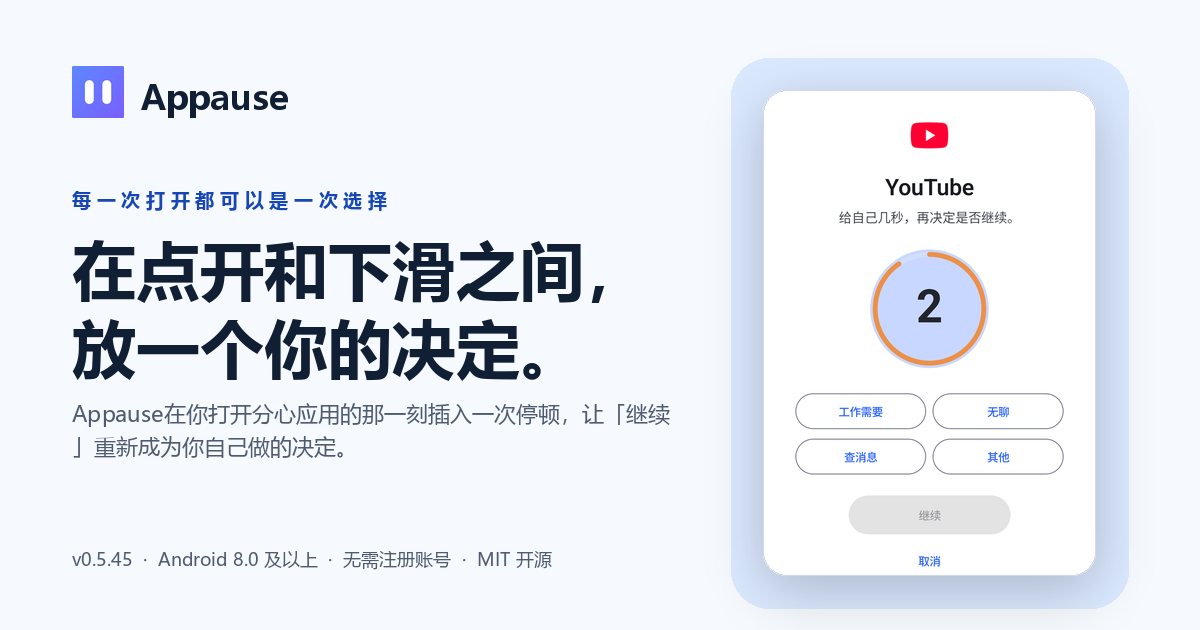
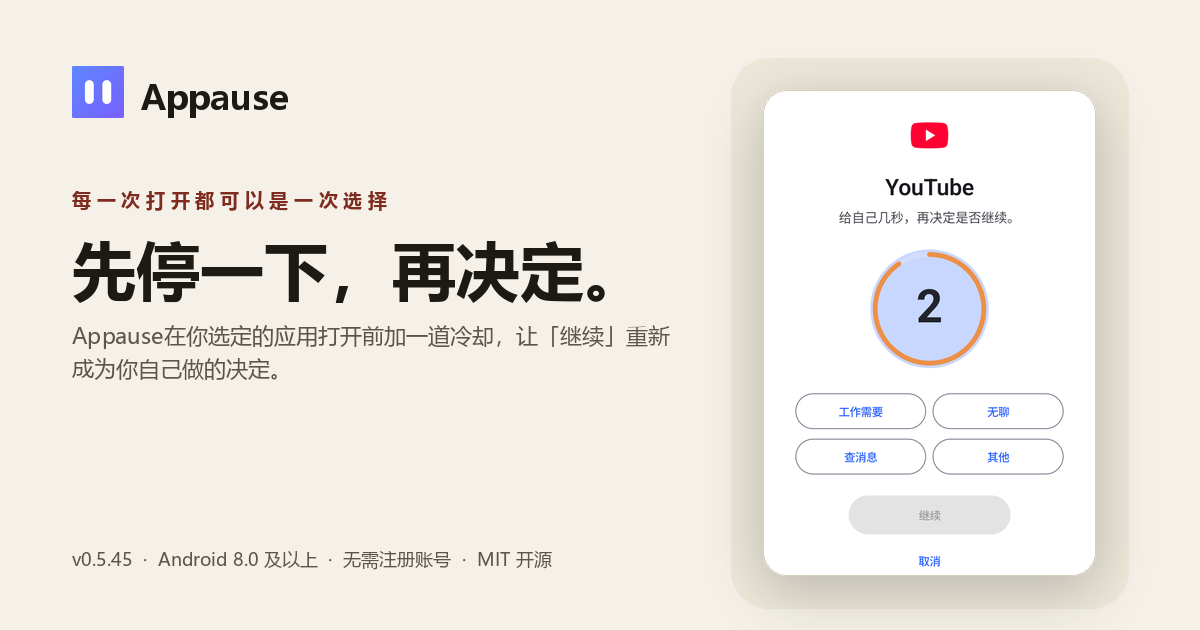
fix(release): give the Chinese share card its own palette
The generator painted both cards with the Cobalt theme read from index.html, so the
Chinese card looked like a different product from the page it links to. The palette is
now per language: English keeps Cobalt, Chinese takes zh.html's paper/ink/cinnabar.
Re-running the English card produces byte-identical files, so that side is untouched.

Copy fixes on the same card: headline now matches the page h1, and the body/alt lost
the two terms the page no longer uses.

diff --git a/scripts/release/make_og_card.py b/scripts/release/make_og_card.py
@@ -8,8 +8,9 @@ Output (English):
 Output (Chinese, --lang zh):
   images/og-card-zh.png         1200x630  social preview
 
-The card matches the landing page palette (Cobalt theme from index.html) and
-uses real app captures from images/screenshots/<lang>/, so sharing the link
+The card matches the landing page palette of the language it belongs to —
+Cobalt (index.html) for English, 纸墨朱红 (zh.html) for Chinese — and uses real
+app captures from images/screenshots/<lang>/, so sharing the link
 shows the actual product rather than a mock. The version string is read from
 app/build.gradle.kts, so re-run this after every release:
 
@@ -63,10 +64,10 @@ COPY = {
         "fonts": (FONT_CJK_BOLD, FONT_CJK_REGULAR, FONT_CJK_REGULAR),
         "label": "每 一 次 打 开 都 可 以 是 一 次 选 择",
         "label_tracking": 0.0,
-        "headline": "在点开和下滑之间，放一个你的决定。",
-        "headline_fit": "在点开和下滑之间，",
-        "body": "Appause 在你打开分心应用的那一刻插入一次停顿，让「继续」重新成为你自己做的决定。",
-        "alt": "Appause 停顿屏：在选定应用打开前先问你为什么",
+        "headline": "先停一下，再决定。",
+        "headline_fit": "先停一下，",
+        "body": "Appause 在你选定的应用打开前加一道冷却，让「继续」重新成为你自己做的决定。",
+        "alt": "Appause 暂停页：在选定应用打开前先问你为什么",
     },
 }
 
@@ -100,13 +101,27 @@ def oklch(lightness: float, chroma: float, hue_deg: float) -> tuple[int, int, in
     return encode(r), encode(g), encode(bl)
 
 
-PAPER = oklch(0.980, 0.006, 255)
-PAPER_BLUE = oklch(0.930, 0.035, 260)
-SURFACE = (255, 255, 255)
-INK = oklch(0.240, 0.045, 258)
-INK_SOFT = oklch(0.470, 0.035, 258)
-RULE = oklch(0.880, 0.018, 258)
-ACCENT_DEEP = oklch(0.440, 0.180, 263)
+# One palette per landing page. A share card painted in the other page's theme
+# reads as a different product from the page it links to, so they are kept apart.
+PALETTE: dict[str, dict[str, tuple[int, int, int]]] = {
+    "en": {
+        "paper": oklch(0.980, 0.006, 255),
+        "panel": oklch(0.930, 0.035, 260),
+        "ink": oklch(0.240, 0.045, 258),
+        "ink_soft": oklch(0.470, 0.035, 258),
+        "rule": oklch(0.880, 0.018, 258),
+        "accent": oklch(0.440, 0.180, 263),
+    },
+    "zh": {
+        # Copied from zh.html's :root tokens. If that page is restyled, re-check these.
+        "paper": (0xF5, 0xF1, 0xE8),      # --paper         #f5f1e8
+        "panel": (0xEC, 0xE7, 0xD9),      # --paper-raise   #ece7d9
+        "ink": (0x1D, 0x1A, 0x16),        # --ink           #1d1a16
+        "ink_soft": (0x5C, 0x55, 0x4A),   # --ink-soft      #5c554a
+        "rule": (0xD9, 0xD2, 0xC3),       # --rule          #d9d2c3
+        "accent": (0x7F, 0x2C, 0x20),     # --cinnabar-deep #7f2c20
+    },
+}
 
 # The icon art is ~9.2% empty on every side (Android adaptive icon safe zone),
 # so crop that padding before drawing it in the wordmark row.
@@ -226,9 +241,10 @@ def content_crop(img: Image.Image, padding: int = 32) -> Image.Image:
 
 def build_card(lang: str) -> Image.Image:
     copy = COPY[lang]
+    pal = PALETTE[lang]
     font_head, font_body, font_util = copy["fonts"]
 
-    canvas = Image.new("RGBA", CANVAS, PAPER + (255,))
+    canvas = Image.new("RGBA", CANVAS, pal["paper"] + (255,))
 
     margin = 72
     version = version_name()
@@ -243,7 +259,7 @@ def build_card(lang: str) -> Image.Image:
     shot_w = round(shot_h * shot.width / shot.height)
     panel = (CANVAS[0] - margin - shot_w - pad * 2, 58, CANVAS[0] - margin, 608)
 
-    draw.rounded_rectangle(panel, radius=38, fill=PAPER_BLUE + (255,))
+    draw.rounded_rectangle(panel, radius=38, fill=pal["panel"] + (255,))
 
     shot_x = panel[0] + pad
     shot_y = 58 + pad
@@ -253,7 +269,7 @@ def build_card(lang: str) -> Image.Image:
     draw.rounded_rectangle(
         (shot_x, shot_y, shot_x + shot_w - 1, shot_y + shot_h - 1),
         radius=24,
-        outline=RULE + (255,),
+        outline=pal["rule"] + (255,),
         width=1,
     )
 
@@ -263,7 +279,7 @@ def build_card(lang: str) -> Image.Image:
     icon = rounded(load_icon(), 12).resize((52, 52), Image.LANCZOS)
     canvas.alpha_composite(icon, (margin, 66))
     draw.text((margin + 68, 74), "Appause",
-              font=ImageFont.truetype(str(font_head), 34), fill=INK)
+              font=ImageFont.truetype(str(font_head), 34), fill=pal["ink"])
 
     # ---- label ------------------------------------------------------------
     tracked_text(
@@ -271,7 +287,7 @@ def build_card(lang: str) -> Image.Image:
         (margin, 186),
         copy["label"],
         ImageFont.truetype(str(font_head), 19),
-        ACCENT_DEEP,
+        pal["accent"],
         copy["label_tracking"],
     )
 
@@ -289,7 +305,7 @@ def build_card(lang: str) -> Image.Image:
     head_lines = wrap(copy["headline"], head_font, text_max)
     y = head_y
     for line in head_lines:
-        draw.text((margin, y), line, font=head_font, fill=INK)
+        draw.text((margin, y), line, font=head_font, fill=pal["ink"])
         y += round(head_font.size * head_lead)
 
     # ---- supporting copy --------------------------------------------------
@@ -297,7 +313,7 @@ def build_card(lang: str) -> Image.Image:
     body_lines = wrap(copy["body"], body_font, text_max)
     y += 16
     for line in body_lines:
-        draw.text((margin, y), line, font=body_font, fill=INK_SOFT)
+        draw.text((margin, y), line, font=body_font, fill=pal["ink_soft"])
         y += body_lead
 
     # ---- footer facts -----------------------------------------------------
@@ -307,7 +323,7 @@ def build_card(lang: str) -> Image.Image:
         if lang == "en"
         else f"v{version}  \u00b7  Android 8.0 及以上  \u00b7  无需注册账号  \u00b7  MIT 开源"
     )
-    draw.text((margin, 546), facts, font=mono, fill=INK_SOFT)
+    draw.text((margin, 546), facts, font=mono, fill=pal["ink_soft"])
 
     # Guard rails: the copy must stay in its column and above the footer.
     if mono.getlength(facts) > text_max:
@@ -347,7 +363,7 @@ def main() -> None:
     icon = load_icon()
     icon.resize((32, 32), Image.LANCZOS).save(IMAGES / "favicon-32.png", optimize=True)
     # iOS masks the icon itself and renders transparency as black, so flatten first.
-    apple = Image.new("RGB", (180, 180), PAPER)
+    apple = Image.new("RGB", (180, 180), PALETTE["en"]["paper"])
     apple.paste(icon.resize((180, 180), Image.LANCZOS), (0, 0), icon.resize((180, 180), Image.LANCZOS))
     apple.save(IMAGES / "apple-touch-icon.png", optimize=True)
     print("wrote images/favicon-32.png 32x32")
